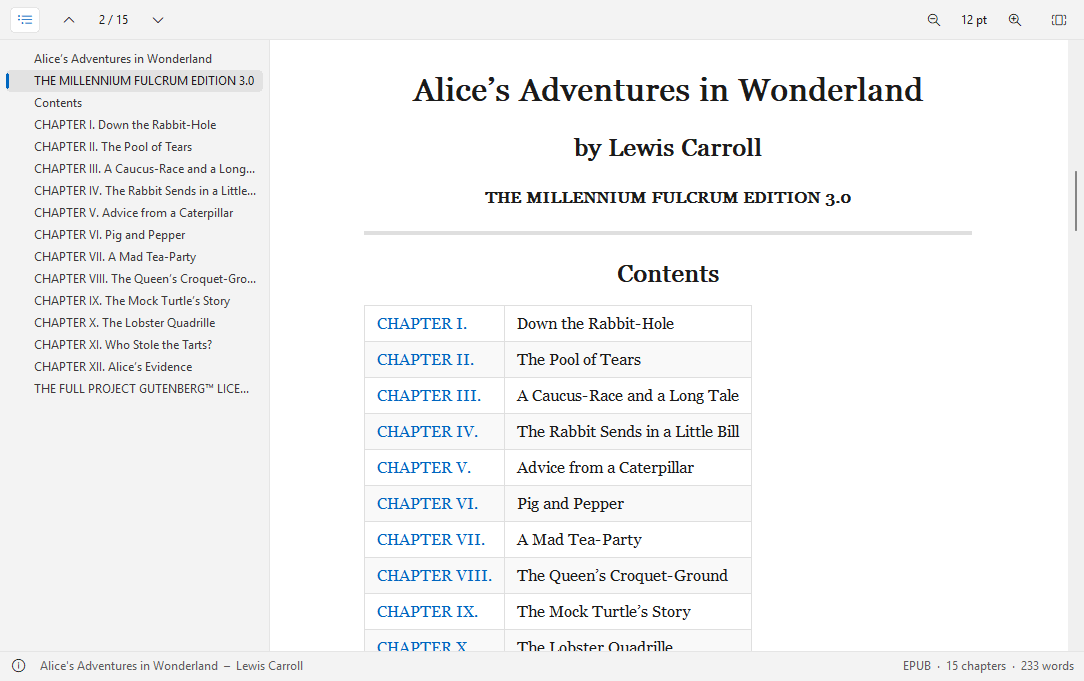
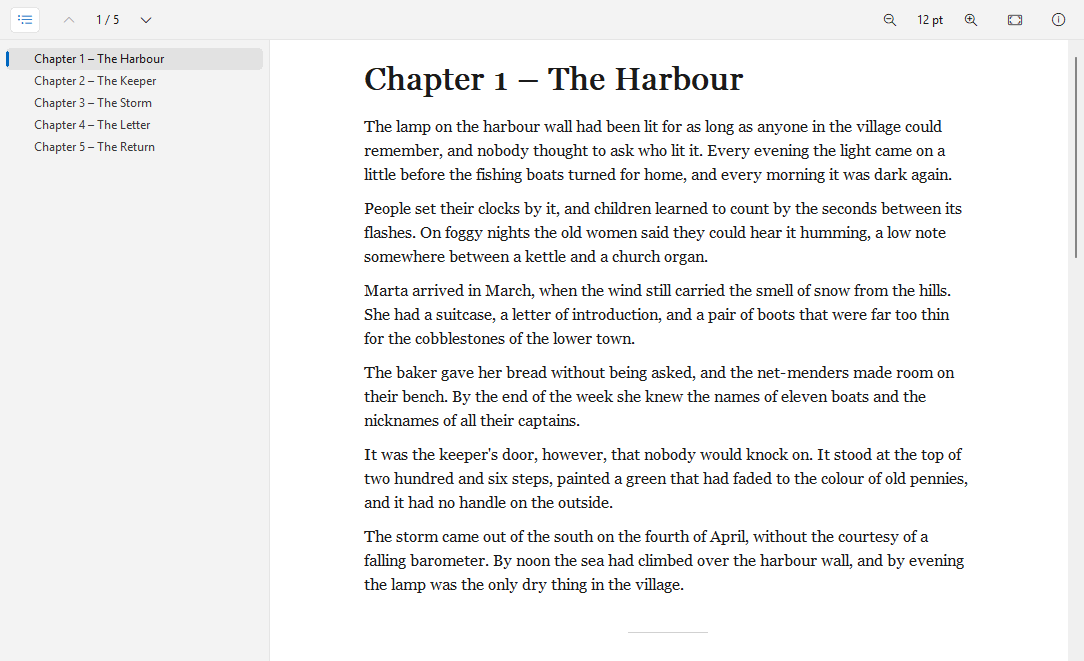
eReader 1.2.0: README (tooltips, info button in the toolbar), new screenshots

diff --git a/README.de.md b/README.de.md
@@ -27,7 +27,7 @@ PDF-Seiten zeichnet Windows selbst, E-Books werden als fließender Text in einer
 - Miniaturansichten für die Thumbnail-Ansicht des Total Commander (Cover oder erste Seite)
 - Helles und dunkles Design (automatisch wie Windows, wie Total Commander oder fest) im Windows-11-Look; im dunklen Design lassen sich auch PDF-Seiten abdunkeln
 - Seiten werden im Hintergrund gezeichnet: Der Lister bleibt bedienbar, auch bei großen Büchern
-- Statusleiste mit Titel, Autor, Format und Seiten- bzw. Kapitelzahl
+- Tooltips an allen Symbolleisten-Buttons und an Links; der Info-Button sitzt in der Symbolleiste, das ganze Fenster dient dem Lesen
 - Oberfläche auf Deutsch und Englisch (richtet sich nach der Windows-Sprache)
 
 ## Download und Installation

diff --git a/README.md b/README.md
@@ -27,7 +27,7 @@ PDF pages are rendered by Windows itself, e-books are laid out as flowing text i
 - Thumbnails for Total Commander's thumbnail view (cover or first page)
 - Light and dark design (automatic like Windows, like Total Commander, or fixed) in the Windows 11 look; in dark mode PDF pages can be darkened too
 - Pages are rendered in the background: the Lister stays responsive, even with large books
-- Status bar with title, author, format and page or chapter count
+- Tooltips on all toolbar buttons and on links; the info button sits in the toolbar, so the whole window is for reading
 - English and German user interface (follows the Windows language)
 
 ## Download and installation
